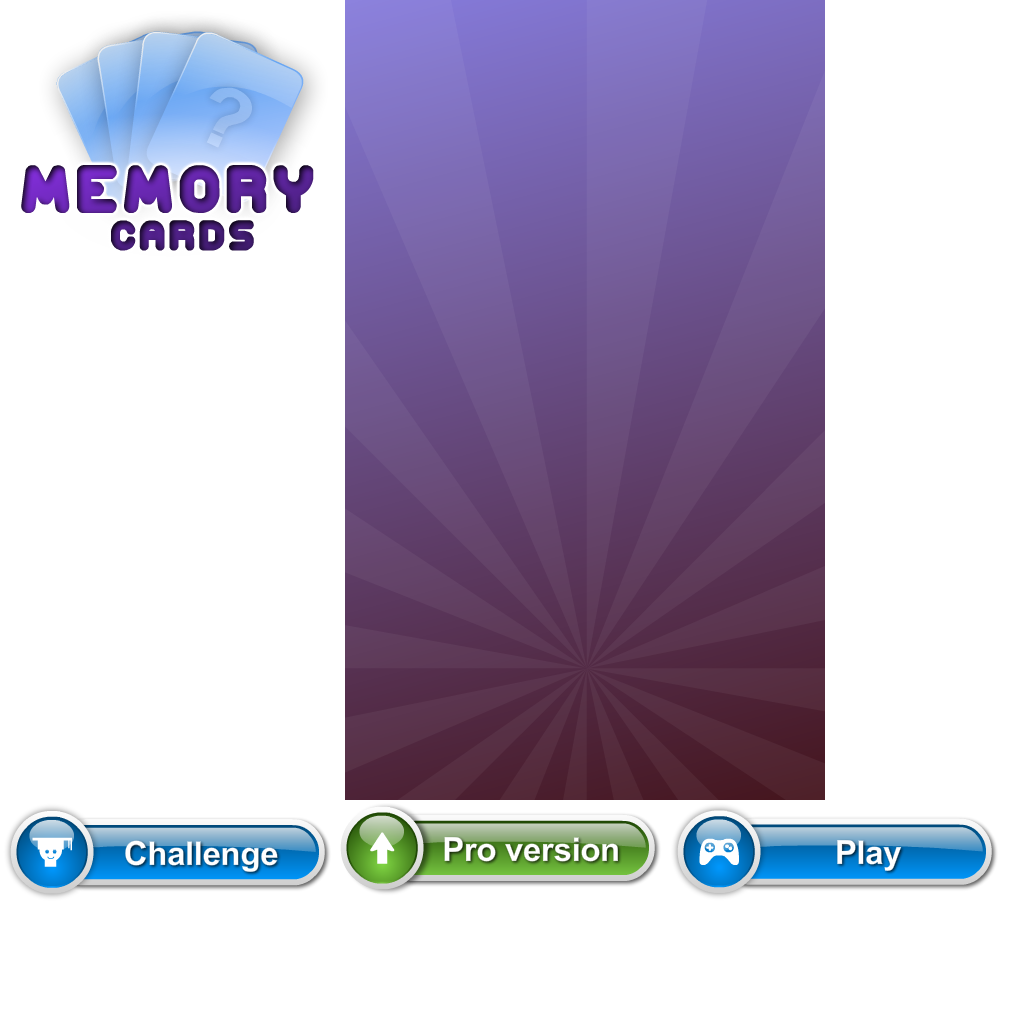
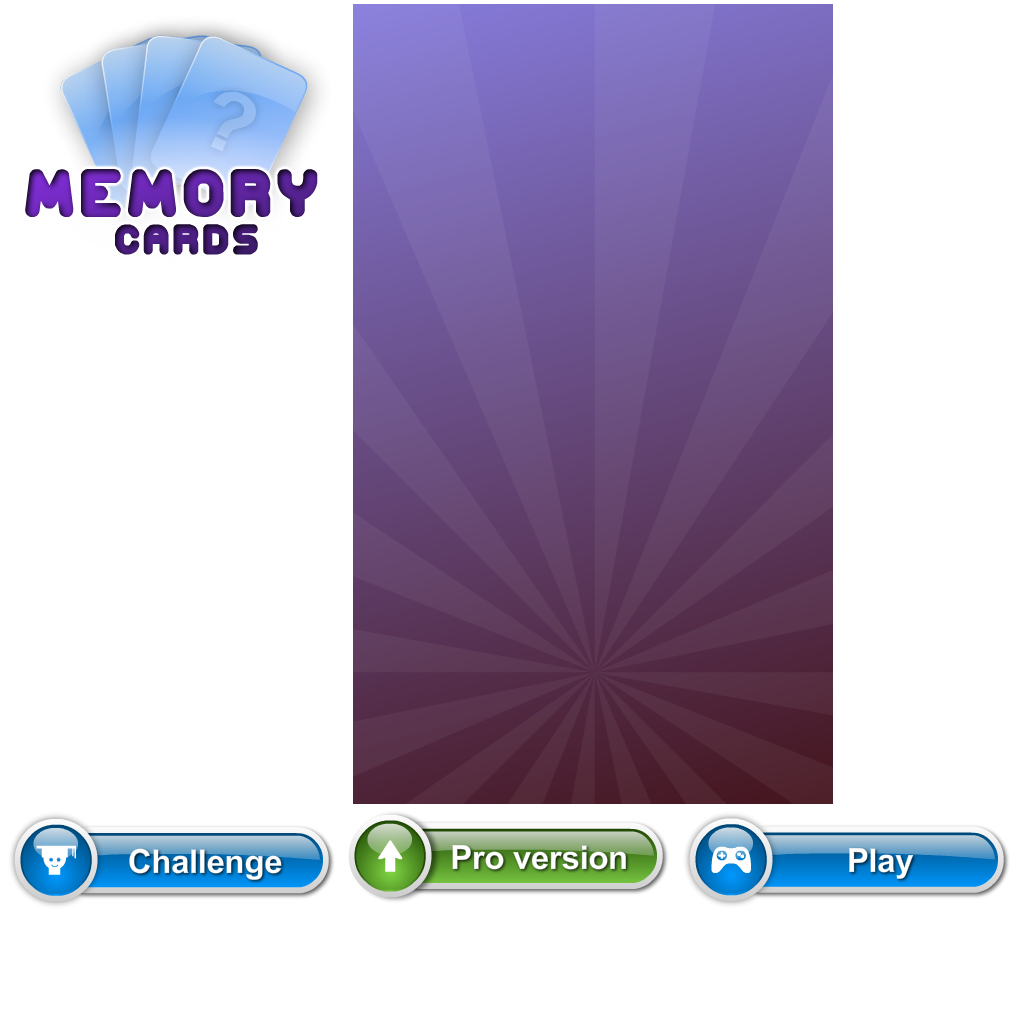
Fixed atlas bleading

Changed region(s): [[0.0, 0.0, 1.0, 0.9062], [0.0625, 0.0312, 0.25, 0.125], [0.2188, 0.0938, 0.25, 0.125]]

diff --git a/app/scripts/atlas.js b/app/scripts/atlas.js
@@ -1,115 +1,46 @@
 /* exported atlasJson */
 var atlasJson = {'frames': {
 	'Logo.png': {
-		'frame': {
-			'x': 0,
-			'y': 0,
-			'w': 345,
-			'h': 287
-		},
+		'frame': {'x': 4, 'y': 4, 'w': 345, 'h': 287},
 		'rotated': false,
 		'trimmed': false,
-		'spriteSourceSize': {
-			'x': 0,
-			'y': 0,
-			'w': 345,
-			'h': 287
-		},
-		'sourceSize': {
-			'w': 345,
-			'h': 287
-		}
+		'spriteSourceSize': {'x': 0, 'y': 0, 'w': 345, 'h': 287},
+		'sourceSize': {'w': 345, 'h': 287}
 	},
 	'background.png': {
-		'frame': {
-			'x': 345,
-			'y': 0,
-			'w': 480,
-			'h': 800
-		},
+		'frame': {'x': 353, 'y': 4, 'w': 480, 'h': 800},
 		'rotated': false,
 		'trimmed': false,
-		'spriteSourceSize': {
-			'x': 0,
-			'y': 0,
-			'w': 480,
-			'h': 800
-		},
-		'sourceSize': {
-			'w': 480,
-			'h': 800
-		}
+		'spriteSourceSize': {'x': 0, 'y': 0, 'w': 480, 'h': 800},
+		'sourceSize': {'w': 480, 'h': 800}
 	},
 	'challengeButton.png': {
-		'frame': {
-			'x': 0,
-			'y': 800,
-			'w': 337,
-			'h': 108
-		},
+		'frame': {'x': 4, 'y': 808, 'w': 337, 'h': 108},
 		'rotated': false,
 		'trimmed': false,
-		'spriteSourceSize': {
-			'x': 0,
-			'y': 0,
-			'w': 337,
-			'h': 108
-		},
-		'sourceSize': {
-			'w': 337,
-			'h': 108
-		}
+		'spriteSourceSize': {'x': 0, 'y': 0, 'w': 337, 'h': 108},
+		'sourceSize': {'w': 337, 'h': 108}
 	},
 	'getProButton.png': {
-		'frame': {
-			'x': 337,
-			'y': 800,
-			'w': 330,
-			'h': 102
-		},
+		'frame': {'x': 345, 'y': 808, 'w': 330, 'h': 102},
 		'rotated': false,
 		'trimmed': false,
-		'spriteSourceSize': {
-			'x': 0,
-			'y': 0,
-			'w': 330,
-			'h': 102
-		},
-		'sourceSize': {
-			'w': 330,
-			'h': 102
-		}
+		'spriteSourceSize': {'x': 0, 'y': 0, 'w': 330, 'h': 102},
+		'sourceSize': {'w': 330, 'h': 102}
 	},
 	'playButton.png': {
-		'frame': {
-			'x': 667,
-			'y': 800,
-			'w': 337,
-			'h': 107
-		},
+		'frame': {'x': 679, 'y': 808, 'w': 337, 'h': 107},
 		'rotated': false,
 		'trimmed': false,
-		'spriteSourceSize': {
-			'x': 0,
-			'y': 0,
-			'w': 337,
-			'h': 107
-		},
-		'sourceSize': {
-			'w': 337,
-			'h': 107
-		}
-	}
-},
+		'spriteSourceSize': {'x': 0, 'y': 0, 'w': 337, 'h': 107},
+		'sourceSize': {'w': 337, 'h': 107}
+	}},
 	'meta': {
 		'app': 'Adobe Flash Professional',
 		'version': '14.1.0.96',
 		'image': 'atlas.png',
 		'format': 'RGBA8888',
-		'size': {
-			'w': 1024,
-			'h': 1024
-		},
+		'size': {'w': 1024, 'h': 1024},
 		'scale': '1'
 	}
 };
